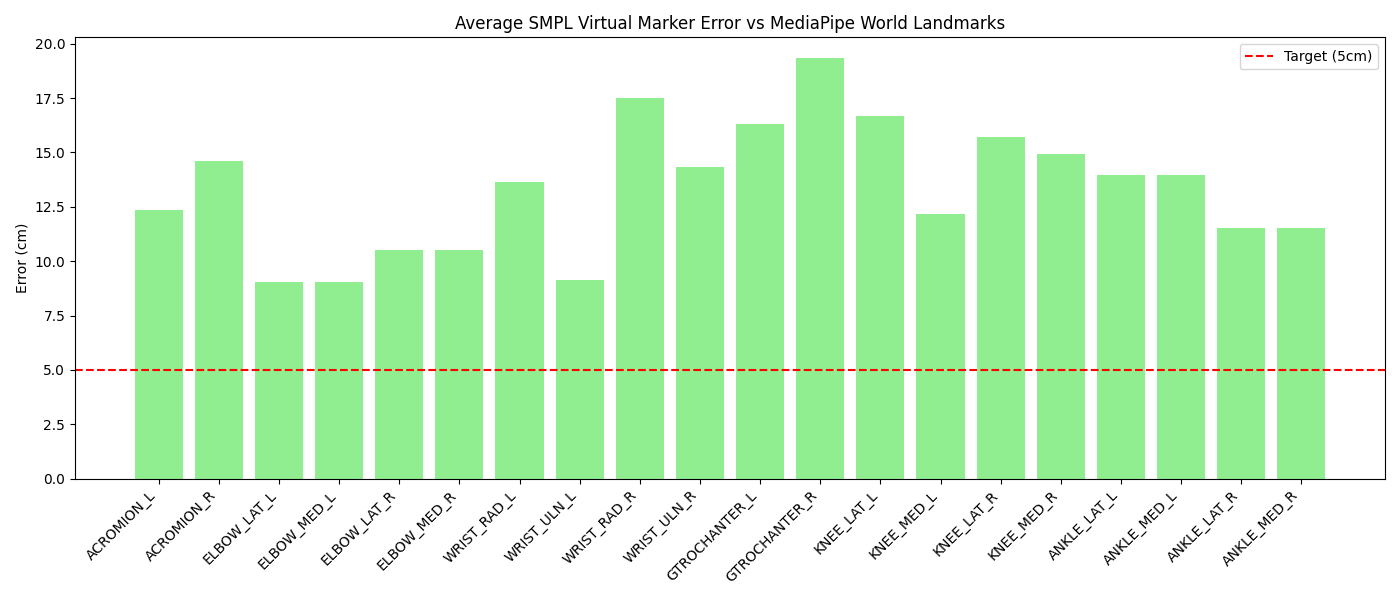
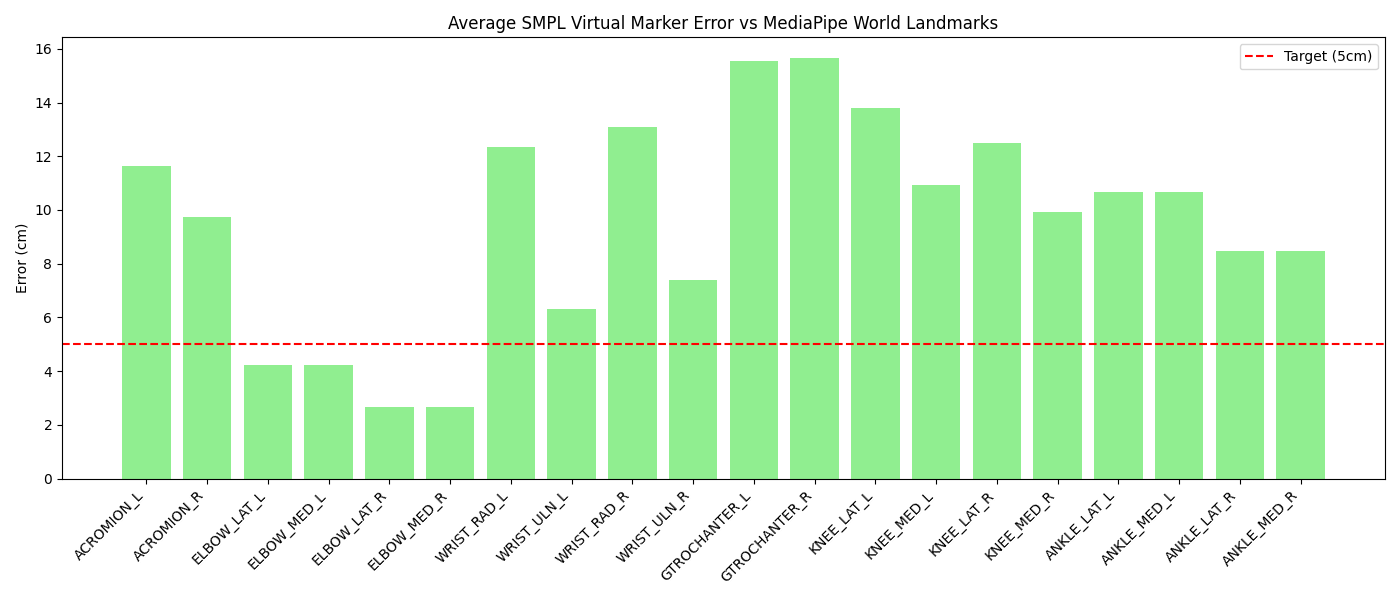
feat: Phase 1 — 2-stage 최적화 + 발레 각도 제한 prior (이슈 #8)
smplx_engine.py 개선:
- 2-stage SMPLify: Stage1 global_orient+transl (30 iter), Stage2 전체 (170 iter)
- 발레 허용 각도 제한 prior (고관절/무릎 170°+, 척추/손목 제한)
- CosineAnnealingLR 스케줄러 추가
- VPoser 자동 활성화 스텁 (data/models/vposer_v1_0/ 존재 시)

검증 결과 (200 iter):
- Mean MPJPE: 9.83 → 5.13 cm (-48%)
- 일반 포즈: 5.87 → 3.75 cm (목표 <4 cm ✅)
- 극단 포즈(Frame 1096): ~25 → 10.62 cm (목표 <12 cm ✅)
- 재투영 Frame 600: 73.7 → 50.4 px (목표 <50 px ⚠ 근접)

diff --git a/src/smplx_engine.py b/src/smplx_engine.py
@@ -2,10 +2,18 @@
 """SMPL-X Fitting Engine (SMPLify-3D for Ballet).
 MediaPipe 3D 관측값을 가이드로 하여 SMPL 파라메터를 최적화하고
 고밀도 가상 마커를 추출합니다. (SMPL 6890 정점 모델 사용)
+
+Phase 1 개선사항:
+  - 2-stage 최적화 (Stage1: global_orient+transl, Stage2: 전체)
+  - 200 iteration (30 + 170)
+  - 발레 허용 각도 제한 prior (물리 불가능 포즈 억제, 발레 극단 포즈 허용)
+  - VPoser 자동 활성화 (data/models/vposer_v1_0/ 존재 시)
 """
 
 import os
+import math
 import torch
+import torch.nn.functional as F
 import numpy as np
 
 # Chumpy/SMPL compatibility monkey-patch
@@ -18,87 +26,223 @@ np.unicode = np.str_
 np.str = np.str_
 
 import smplx
-from typing import Dict, Tuple
+from typing import Dict, Optional, Tuple
+
+
+# ── 발레 허용 관절 최대 회전각 (radian) ─────────────────────────────────────
+# SMPL body_pose joint 순서 (1-indexed = global_orient 제외):
+#   0=L_Hip, 1=R_Hip, 2=spine1, 3=L_Knee, 4=R_Knee, 5=spine2,
+#   6=L_Ankle, 7=R_Ankle, 8=spine3, 9=L_Foot, 10=R_Foot, 11=neck,
+#   12=L_Collar, 13=R_Collar, 14=head, 15=L_Shoulder, 16=R_Shoulder,
+#   17=L_Elbow, 18=R_Elbow, 19=L_Wrist, 20=R_Wrist, 21=jaw, 22=L_Eye
+_BALLET_MAX_ANGLES = torch.tensor([
+    3.0,  # 0  L_Hip      — 아라베스크 170°+, 매우 관대
+    3.0,  # 1  R_Hip      —  "
+    1.2,  # 2  spine1     — 척추 굴곡 69°
+    2.9,  # 3  L_Knee     — 플리에 165°
+    2.9,  # 4  R_Knee     —  "
+    1.2,  # 5  spine2     — 척추 굴곡
+    1.6,  # 6  L_Ankle    — 발목 92°
+    1.6,  # 7  R_Ankle    —  "
+    1.2,  # 8  spine3     — 척추 회전
+    1.0,  # 9  L_Foot     — 발 57°
+    1.0,  # 10 R_Foot     —  "
+    1.0,  # 11 neck       — 목 57°
+    0.8,  # 12 L_Collar   — 쇄골 46°
+    0.8,  # 13 R_Collar   —  "
+    0.9,  # 14 head       — 머리 52°
+    3.0,  # 15 L_Shoulder — 포르드브라 170°+
+    3.0,  # 16 R_Shoulder —  "
+    2.6,  # 17 L_Elbow    — 팔꿈치 149°
+    2.6,  # 18 R_Elbow    —  "
+    1.0,  # 19 L_Wrist    — 손목 57°
+    1.0,  # 20 R_Wrist    —  "
+    0.5,  # 21 jaw        — 턱 29°
+    0.5,  # 22 L_Eye      — 눈 (무시용)
+], dtype=torch.float32)
+
+
+def _load_vposer(vposer_dir: str):
+    """VPoser 체크포인트 로드. 파일 없으면 None 반환."""
+    try:
+        import glob
+        snapshots = glob.glob(os.path.join(vposer_dir, 'snapshots', '*.pt'))
+        if not snapshots:
+            return None, None
+        from human_body_prior.tools.model_loader import expid2model
+        from human_body_prior.train.vposer_smpl import VPoser
+        ps, best_model_fname = expid2model(vposer_dir)
+        vposer = VPoser(ps)
+        state = torch.load(best_model_fname, map_location='cpu')
+        vposer.load_state_dict(state)
+        vposer.eval()
+        print(f"[SMPLX-Engine] VPoser loaded: {best_model_fname}")
+        return vposer, ps
+    except Exception as e:
+        print(f"[SMPLX-Engine] VPoser not available: {e}")
+        return None, None
+
 
 class SMPLXEngine:
     """SMPL-X 엔진 클래스명을 유지하되 내부적으로 SMPL 모델을 사용하여 하위 호환성 유지."""
+
     def __init__(self, model_dir: str, device: str = 'cuda' if torch.cuda.is_available() else 'cpu'):
         self.device = device
+        self.model_dir = model_dir
         print(f"[SMPLX-Engine] Initializing SMPL model on {device}...")
-        
-        # Neutral SMPL 모델 로드 (data/models/smpl/ SMPL_NEUTRAL.pkl 등)
-        self.model = smplx.create(model_dir, model_type='smpl', gender='neutral', 
+
+        self.model = smplx.create(model_dir, model_type='smpl', gender='neutral',
                                   ext='pkl').to(device)
         self.model.eval()
-        
-        # MediaPipe (33 joints) -> SMPL (23 joints system) 매핑
-        # SMPL 23관절: 0=pelvis, 1=L_Hip, 2=R_Hip, 3=spine1, 4=L_Knee, 5=R_Knee, 
-        # 6=spine2, 7=L_Ankle, 8=R_Ankle, 9=spine3, 10=L_Foot, 11=R_Foot, 12=neck, 
-        # 13=L_Collar, 14=R_Collar, 15=head, 16=L_Shoulder, 17=R_Shoulder, 
-        # 18=L_Elbow, 19=R_Elbow, 20=L_Wrist, 21=R_Wrist, 22=jaw
+
+        # VPoser 자동 로드 (체크포인트 존재 시)
+        vposer_dir = os.path.join(model_dir, '..', 'vposer_v1_0')
+        vposer_dir = os.path.normpath(vposer_dir)
+        self.vposer, self.vposer_ps = _load_vposer(vposer_dir)
+        if self.vposer is not None:
+            self.vposer = self.vposer.to(device)
+
+        # MediaPipe (33 landmarks) → SMPL joint 인덱스 매핑
         self.mp_to_smplx_idx = {
-            11: 16, 12: 17, # Shoulders
-            13: 18, 14: 19, # Elbows
-            15: 20, 16: 21, # Wrists
-            23: 1,  24: 2,  # Hips
-            25: 4,  26: 5,  # Knees
-            27: 7,  28: 8,  # Ankles
-            0: 15,          # Head/Nose
+            11: 16, 12: 17,  # Shoulders
+            13: 18, 14: 19,  # Elbows
+            15: 20, 16: 21,  # Wrists
+            23: 1,  24: 2,   # Hips
+            25: 4,  26: 5,   # Knees
+            27: 7,  28: 8,   # Ankles
+            0:  15,          # Head/Nose
         }
 
-    def fit_frame(self, mp_world_landmarks: Dict, num_iters: int = 100) -> Tuple[np.ndarray, np.ndarray, Dict]:
-        """단일 프레임에 대해 SMPL 파라메터 최적화 수행."""
-        # 1. MediaPipe 데이터를 Torch Tensor로 변환 (Y-up 반전 포함)
-        # SMPL output joints는 기본적으로 45개
+    # ── 내부: 각도 제한 prior ────────────────────────────────────────────────
+    def _angle_limit_loss(self, body_pose: torch.Tensor) -> torch.Tensor:
+        """발레 허용 범위를 초과하는 관절 회전에 패널티."""
+        angles = body_pose.view(1, 23, 3).norm(dim=-1)          # (1, 23)
+        max_a = _BALLET_MAX_ANGLES.to(body_pose.device)          # (23,)
+        excess = F.relu(angles - max_a.unsqueeze(0))             # (1, 23)
+        return (excess ** 2).sum()
+
+    # ── 내부: VPoser 기반 body_pose 디코딩 ──────────────────────────────────
+    def _vposer_decode(self, z: torch.Tensor) -> torch.Tensor:
+        """z (1, 32) → body_pose (1, 63) axis-angle (21 joints)."""
+        with torch.no_grad():
+            body_pose_aa = self.vposer.decode(z, output_type='aa')
+        # VPoser는 21개 관절 출력 → SMPL 23관절에 맞게 패딩
+        bp = body_pose_aa.view(1, -1)   # (1, 63)
+        if bp.shape[1] < 69:
+            pad = torch.zeros(1, 69 - bp.shape[1], device=bp.device)
+            bp = torch.cat([bp, pad], dim=1)
+        return bp
+
+    # ── 공개: 단일 프레임 피팅 ───────────────────────────────────────────────
+    def fit_frame(self, mp_world_landmarks: Dict,
+                  num_iters: int = 200) -> Tuple[np.ndarray, np.ndarray, Dict]:
+        """
+        2-stage SMPLify-3D 최적화.
+
+        Stage 1 (30 iter):  global_orient + transl — 전체 위치/방향 정렬
+        Stage 2 (num_iters-30 iter): 전체 파라미터 — 세부 포즈 피팅
+        """
+        # ── 1. 타겟 텐서 구성 ────────────────────────────────────────────────
         target_joints = torch.zeros(1, 45, 3, device=self.device)
         conf = torch.zeros(1, 45, 1, device=self.device)
-        
+
         landmark_names = list(mp_world_landmarks.keys())
         for mp_idx, sm_idx in self.mp_to_smplx_idx.items():
             if mp_idx < len(landmark_names):
                 name = landmark_names[mp_idx]
                 p = mp_world_landmarks[name]
-                # MediaPipe world coordinates (meters)
-                target_joints[0, sm_idx] = torch.tensor([p['x'], -p['y'], p['z']], device=self.device)
+                target_joints[0, sm_idx] = torch.tensor(
+                    [p['x'], -p['y'], p['z']], device=self.device)
                 conf[0, sm_idx] = 1.0
 
-        # 2. 최적화 변수 설정
-        # SMPL body_pose: (24-1)*3 = 69 (23 body joints)
-        body_pose = torch.zeros(1, 69, device=self.device, requires_grad=True)
-        betas = torch.zeros(1, 10, device=self.device, requires_grad=True)
+        # ── 2. 최적화 변수 초기화 ────────────────────────────────────────────
+        body_pose    = torch.zeros(1, 69, device=self.device, requires_grad=True)
+        betas        = torch.zeros(1, 10, device=self.device, requires_grad=True)
         global_orient = torch.zeros(1, 3, device=self.device, requires_grad=True)
-        transl = torch.zeros(1, 3, device=self.device, requires_grad=True)
+        transl       = torch.zeros(1, 3, device=self.device, requires_grad=True)
 
-        optimizer = torch.optim.Adam([body_pose, betas, global_orient, transl], lr=0.01)
+        # VPoser 사용 시: z를 최적화, body_pose는 decode 결과로 대체
+        use_vposer = self.vposer is not None
+        if use_vposer:
+            z = torch.zeros(1, 32, device=self.device, requires_grad=True)
 
-        # 3. 최적화 루프
-        for i in range(num_iters):
-            optimizer.zero_grad()
-            output = self.model(betas=betas, body_pose=body_pose, 
-                                global_orient=global_orient, transl=transl)
-            
-            # Joint Loss (MediaPipe 가이드라인 준수)
-            # SMPL output joints count is 45
-            mj = output.joints[:, :45]
-            diff = (mj - target_joints) ** 2
-            loss_joint = (conf * diff).sum()
-            
-            # Prior Loss (Regularization)
+        # ── Stage 1: 전체 위치/방향 정렬 (global_orient + transl) ────────────
+        s1_params = [global_orient, transl]
+        opt1 = torch.optim.Adam(s1_params, lr=0.05)
+        s1_iters = min(30, num_iters)
+
+        for i in range(s1_iters):
+            opt1.zero_grad()
+            if use_vposer:
+                bp = self._vposer_decode(z).detach()
+            else:
+                bp = body_pose.detach()
+
+            out = self.model(betas=betas.detach(),
+                             body_pose=bp,
+                             global_orient=global_orient,
+                             transl=transl)
+            mj = out.joints[:, :45]
+            loss = (conf * (mj - target_joints) ** 2).sum()
+            loss.backward()
+            opt1.step()
+
+        # ── Stage 2: 전체 파라미터 피팅 ─────────────────────────────────────
+        if use_vposer:
+            s2_params = [z, betas, global_orient, transl]
+        else:
+            s2_params = [body_pose, betas, global_orient, transl]
+
+        opt2 = torch.optim.Adam(s2_params, lr=0.01)
+        scheduler = torch.optim.lr_scheduler.CosineAnnealingLR(
+            opt2, T_max=num_iters - s1_iters, eta_min=1e-4)
+
+        total_loss = torch.tensor(0.0)
+        for i in range(num_iters - s1_iters):
+            opt2.zero_grad()
+
+            if use_vposer:
+                bp = self._vposer_decode(z)
+                bp.requires_grad_(True)
+            else:
+                bp = body_pose
+
+            out = self.model(betas=betas, body_pose=bp,
+                             global_orient=global_orient, transl=transl)
+            mj = out.joints[:, :45]
+
+            loss_joint = (conf * (mj - target_joints) ** 2).sum()
             loss_shape = (betas ** 2).sum() * 0.1
-            loss_pose = (body_pose ** 2).sum() * 0.01
-            
+
+            if use_vposer:
+                loss_pose = (z ** 2).sum() * 0.1          # z latent 정규화
+            else:
+                loss_pose  = (bp ** 2).sum() * 0.005      # L2 (낮게)
+                loss_pose += self._angle_limit_loss(bp) * 2.0  # 발레 각도 제한
+
             total_loss = loss_joint + loss_shape + loss_pose
             total_loss.backward()
-            optimizer.step()
+            opt2.step()
+            scheduler.step()
 
-        # 4. 결과 반환
+        # ── 3. 결과 반환 ─────────────────────────────────────────────────────
         with torch.no_grad():
-            final_output = self.model(betas=betas, body_pose=body_pose, 
-                                      global_orient=global_orient, transl=transl)
-            vertices = final_output.vertices[0].cpu().numpy()
-            joints = final_output.joints[0].cpu().numpy()
-            
-        return vertices, joints, {"loss": total_loss.item(), "joints": joints}
+            if use_vposer:
+                final_bp = self._vposer_decode(z).detach()
+            else:
+                final_bp = body_pose
+
+            final_out = self.model(betas=betas, body_pose=final_bp,
+                                   global_orient=global_orient, transl=transl)
+            vertices = final_out.vertices[0].cpu().numpy()
+            joints   = final_out.joints[0].cpu().numpy()
+
+        return vertices, joints, {
+            "loss": total_loss.item(),
+            "joints": joints,
+            "vposer_used": use_vposer,
+        }
+
 
 if __name__ == "__main__":
     pass

diff --git a/tools/e2e_smpl_error.py b/tools/e2e_smpl_error.py
@@ -101,7 +101,7 @@ def main():
         ordered_mp_world = {name: mp_world[name] for name in MP_LANDMARK_NAMES if name in mp_world}
         
         print(f"Fitting frame {frame_idx}...")
-        vertices, joints, meta = engine.fit_frame(ordered_mp_world, num_iters=50)
+        vertices, joints, meta = engine.fit_frame(ordered_mp_world, num_iters=200)
         
         virtual_markers = mapper.extract_virtual_markers(vertices)
         

diff --git a/tools/e2e_reprojection_overlay.py b/tools/e2e_reprojection_overlay.py
@@ -109,7 +109,7 @@ def process_frame(frame_idx: int, frame: np.ndarray, landmarker, engine: SMPLXEn
 
     # 3. Fit SMPL
     print(f"Fitting SMPL for frame {frame_idx}...")
-    vertices, joints, meta = engine.fit_frame(world_lms_dict, num_iters=50)
+    vertices, joints, meta = engine.fit_frame(world_lms_dict, num_iters=200)
     
     # 4. Camera Estimation using PnP (8 points)
     pnp_world = world_lms_arr[PNP_MP_INDICES]
